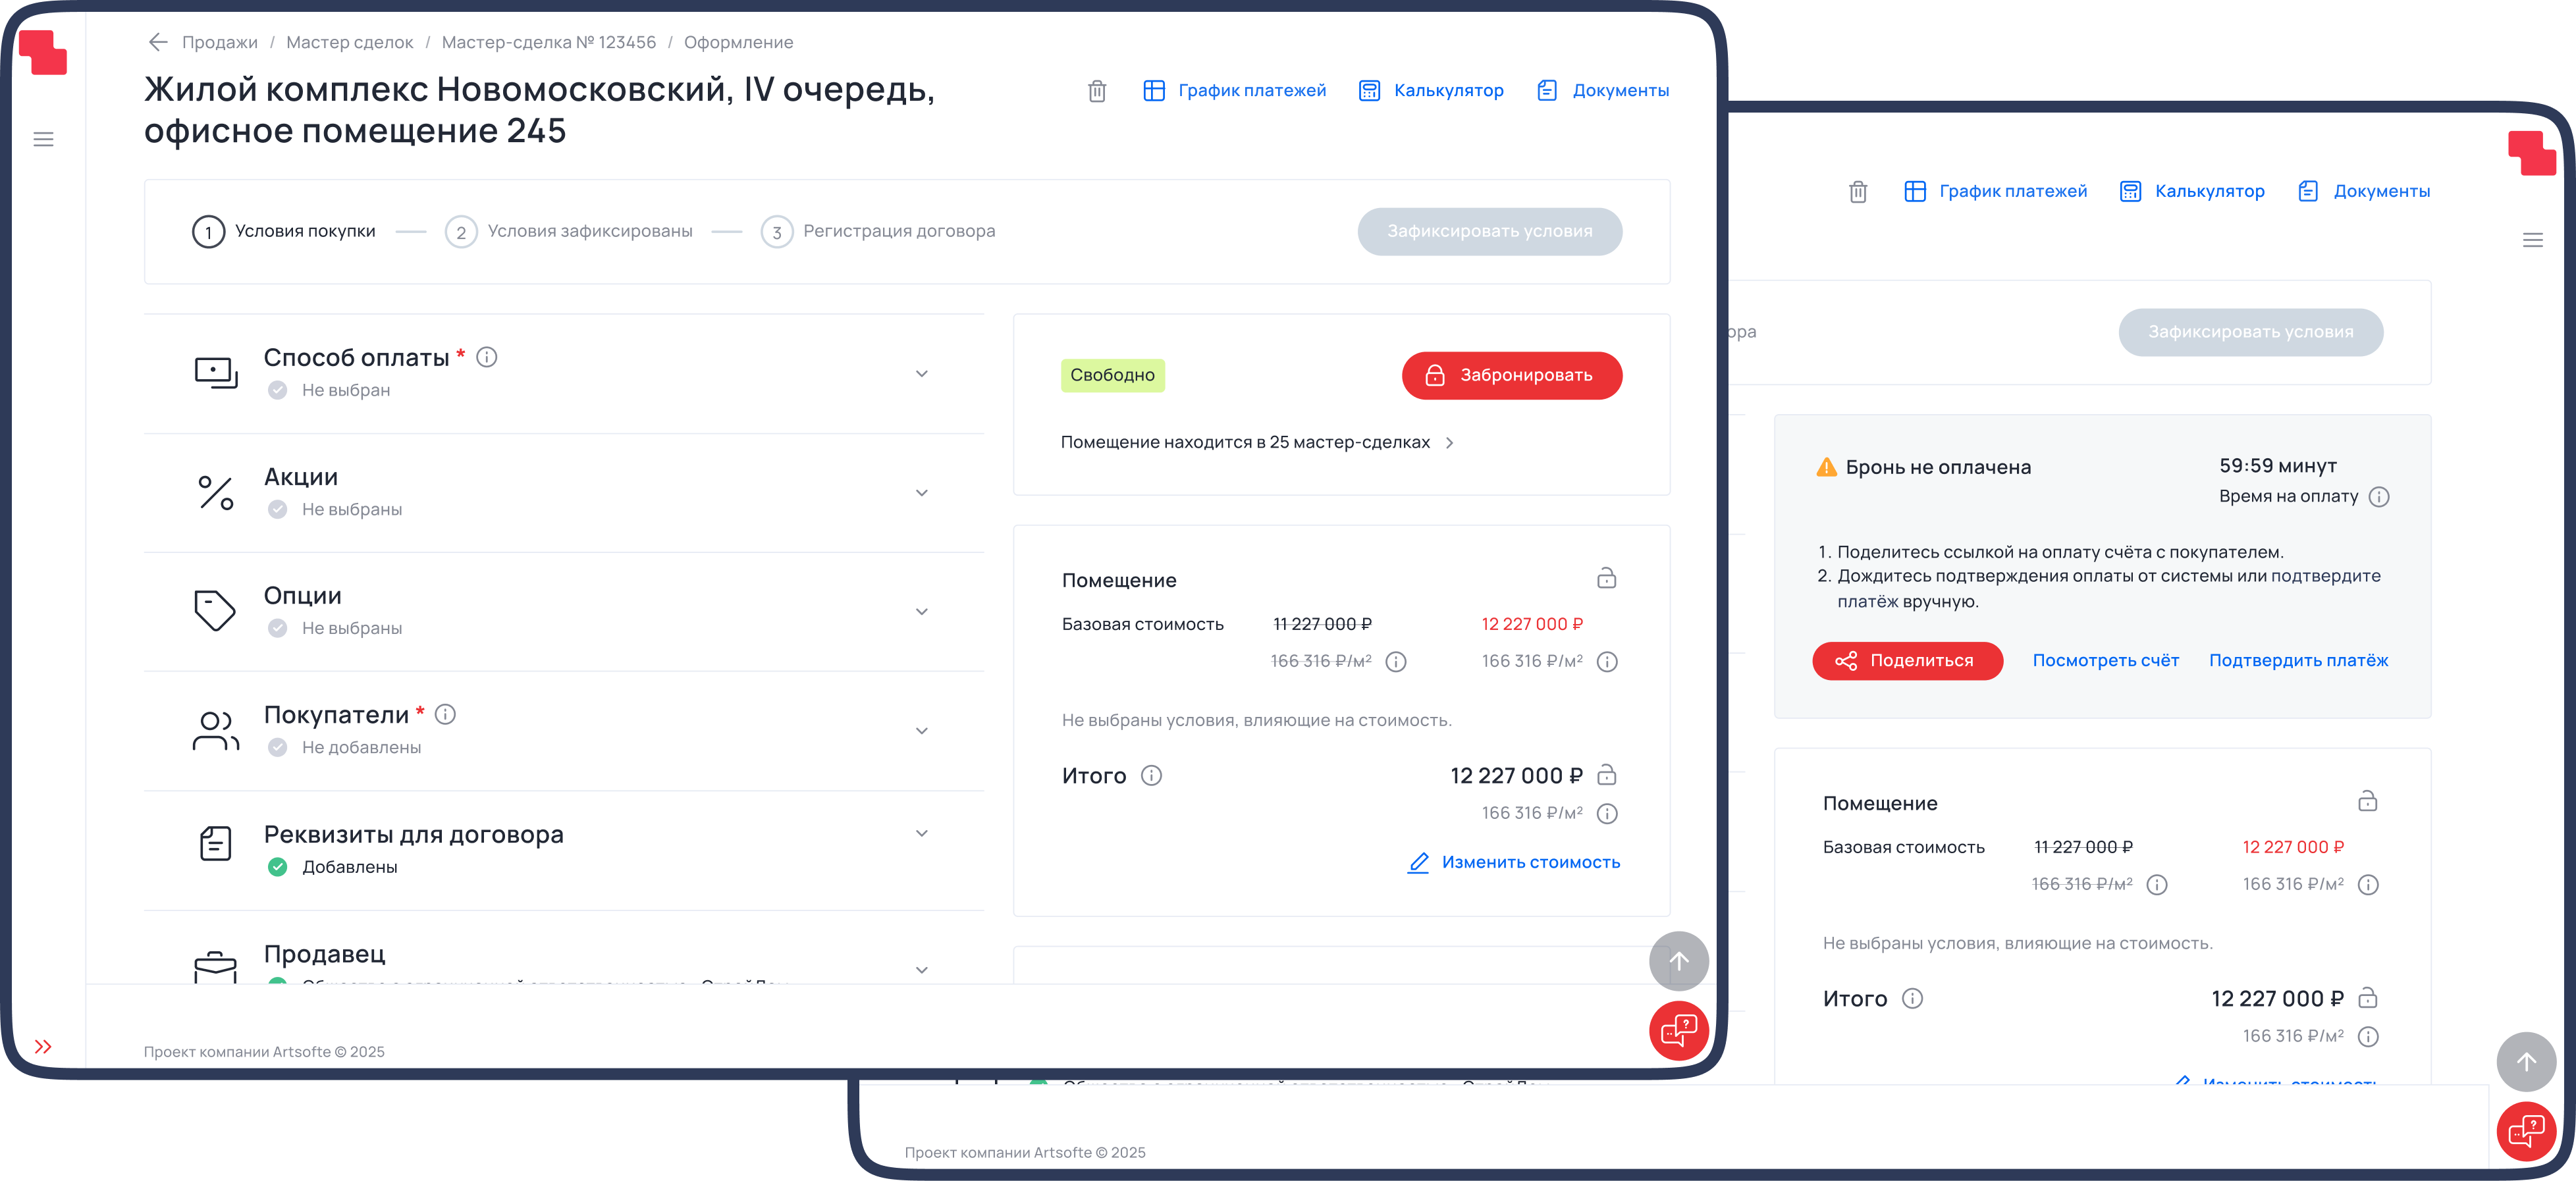
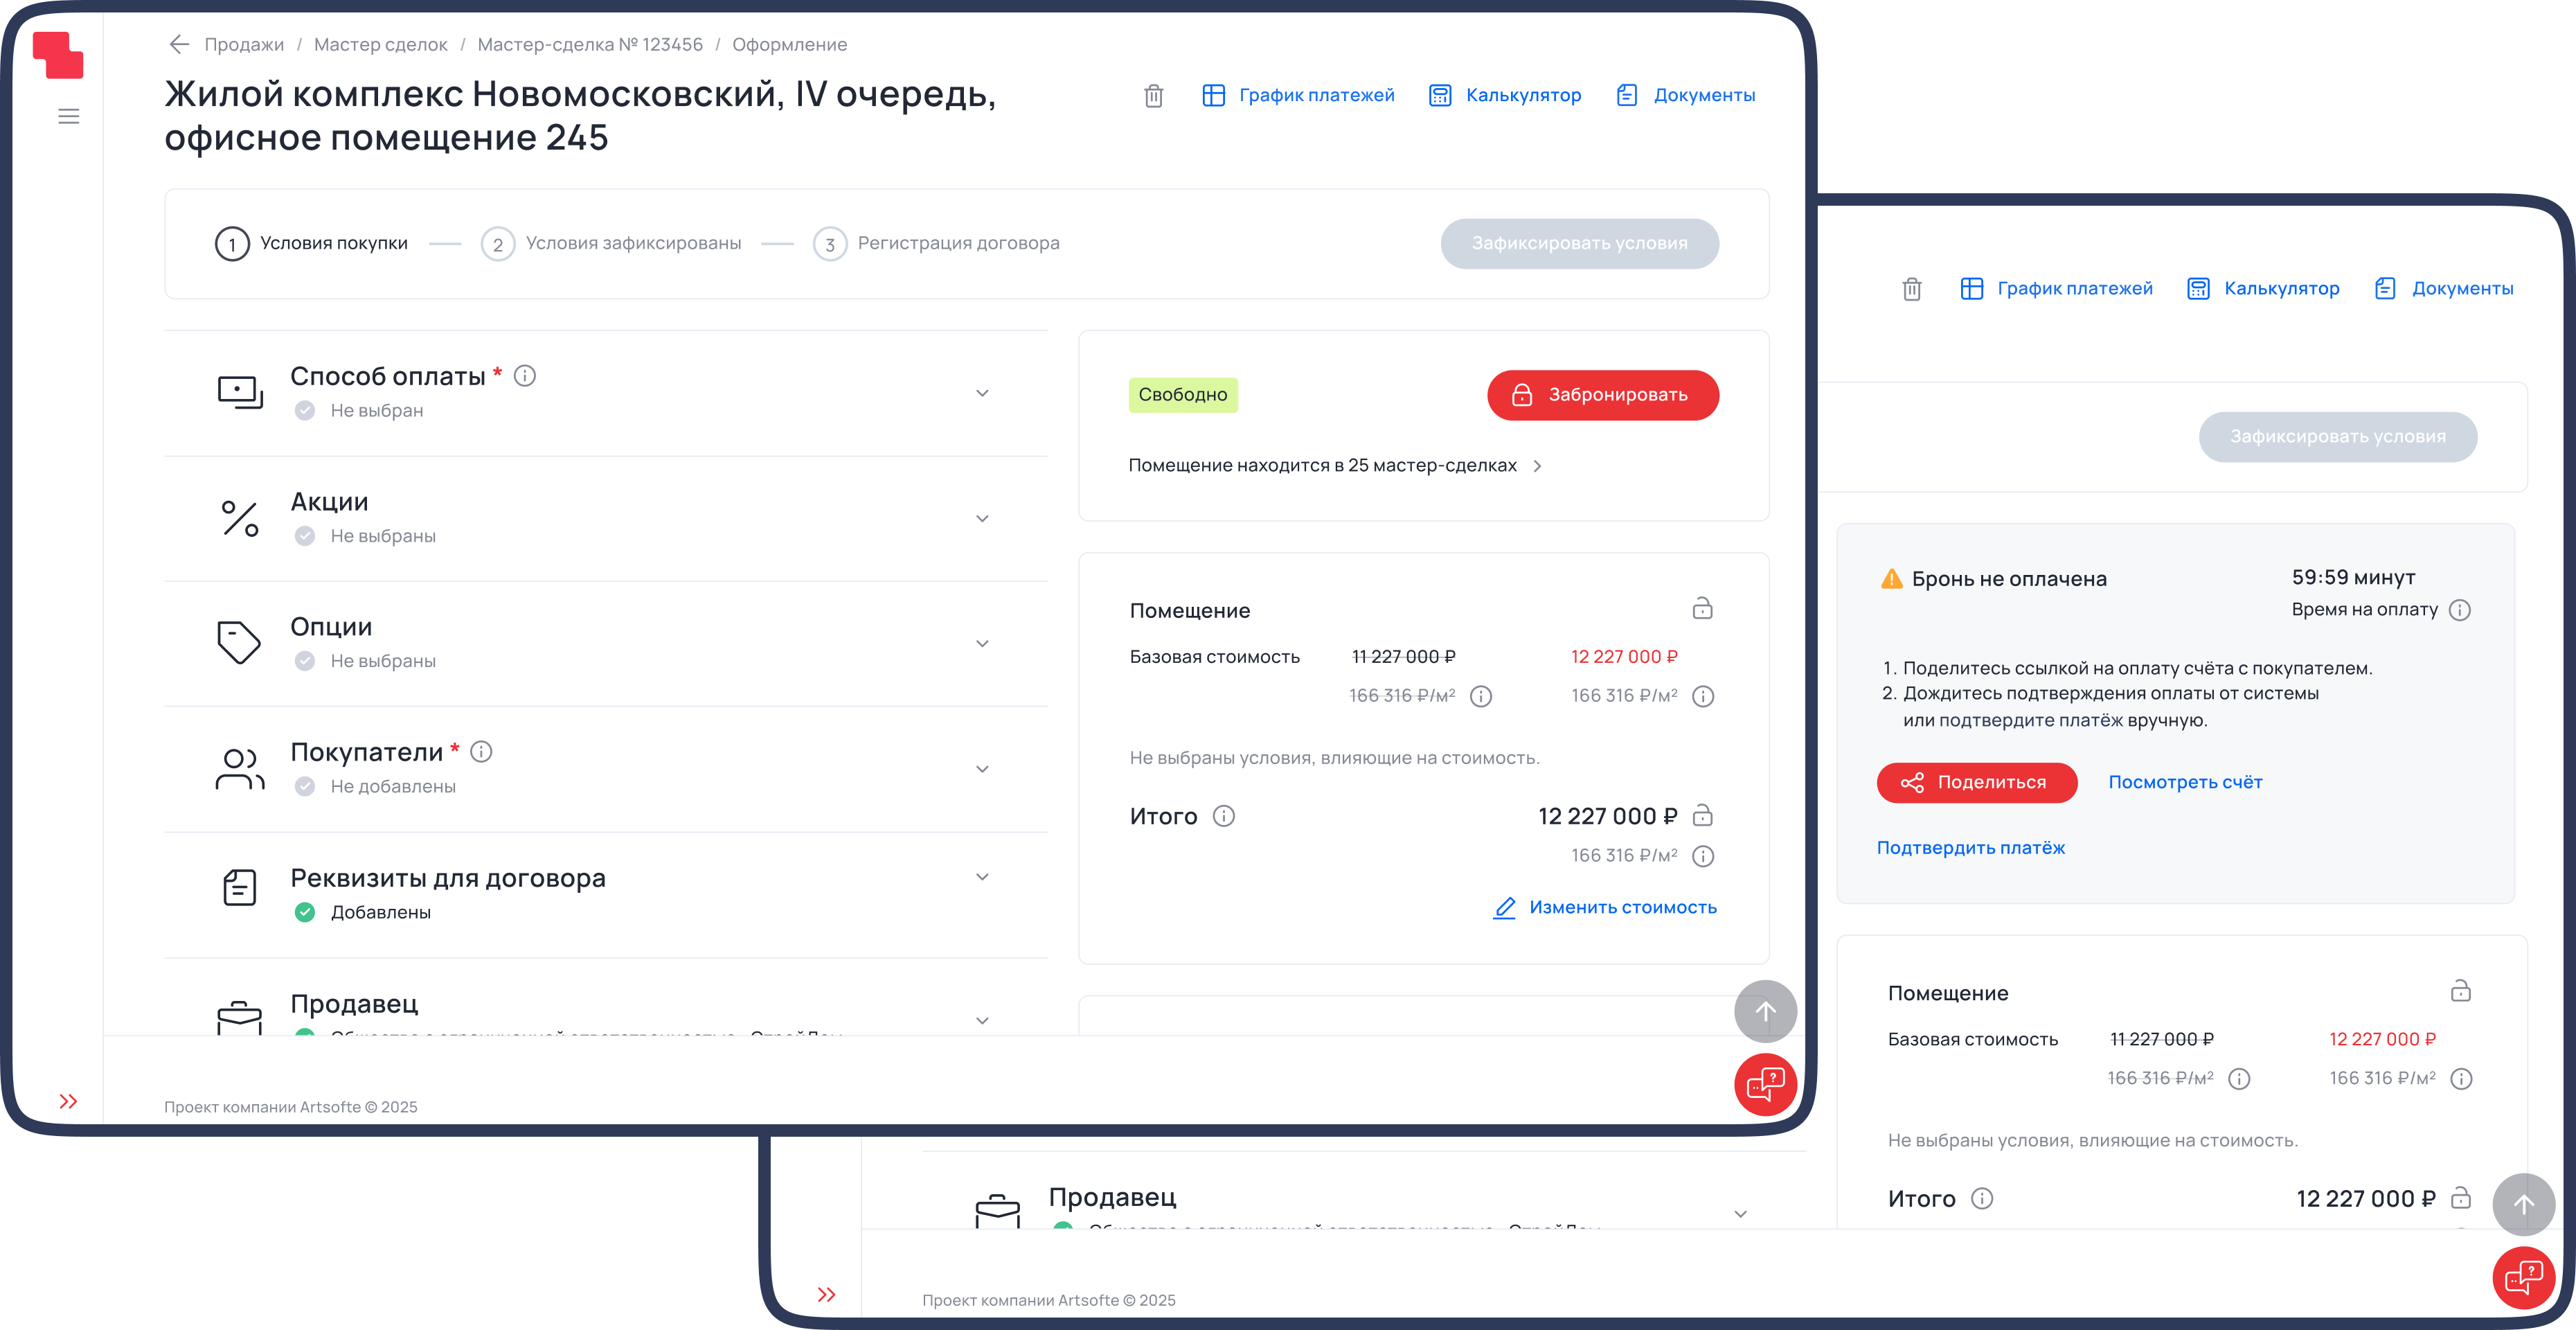
правки в документах

diff --git a/work/paid-booking/index.html b/work/paid-booking/index.html
@@ -60,23 +60,23 @@
           <h2 class="case-booking-v2__section-title" id="context-title">Контекст <span class="case-booking-v2__section-index">01</span></h2>
           <div class="case-booking-v2__section-content case-booking-v2__section-content--stacked">
             <p>Profitbase — экосистема proptech-сервисов для&nbsp;девелоперов жилья. Модуль «Смарт-каталог» генерирует около 60% заявок с&nbsp;конверсией в&nbsp;сделку в&nbsp;три раза выше среднего.</p>
-            <p>Но&nbsp;после выбора квартиры продукт передавал покупателя в&nbsp;ручную цепочку: заявка → звонок менеджера → бронирование по&nbsp;телефону или в&nbsp;мессенджере. Горячий лид остывал, пока ждал ответа.</p>
-          </div>
-        </section>
-
-        <section class="case-booking-v2__section reveal" aria-labelledby="role-title">
-          <h2 class="case-booking-v2__section-title" id="role-title">Моя роль <span class="case-booking-v2__section-index">02</span></h2>
-          <div class="case-booking-v2__section-content">
-            <p>Работала в&nbsp;команде с&nbsp;продакт-менеджером, аналитиком и&nbsp;разработкой. В&nbsp;роли ведущего product designer отвечала за&nbsp;полный MVP: покупательский флоу, сценарий менеджера, настройки застройщика.</p>
+            <p>Но&nbsp;после выбора квартиры продукт передавал покупателя в&nbsp;ручную обработку сделки менеджером. Горячий лид остывал, пока ждал ответа, конверсия падала.</p>
+            <div class="case-booking-v2__context-image">
+              <img src="../../assets/case-booking-context.png?v=20260530" alt="Контекст ручной обработки бронирования после выбора квартиры" width="4096" height="1282">
+            </div>
           </div>
         </section>
 
         <section class="case-booking-v2__section reveal" aria-labelledby="discovery-title">
-          <h2 class="case-booking-v2__section-title" id="discovery-title">Discovery <span class="case-booking-v2__section-index">03</span></h2>
+          <h2 class="case-booking-v2__section-title" id="discovery-title">Discovery <span class="case-booking-v2__section-index">02</span></h2>
           <div class="case-booking-v2__section-content case-booking-v2__section-content--stacked case-booking-v2__discovery">
             <article class="case-booking-v2__discovery-item">
               <p class="case-booking-v2__chip">Тайный покупатель</p>
-              <p>4&nbsp;дизайнера прошли полный путь бронирования у&nbsp;15&nbsp;застройщиков Екатеринбурга. Фиксировали время ответа, каналы, наличие онлайн-сценария, модель бронирования. Только 2&nbsp;из&nbsp;15&nbsp;ответили в&nbsp;течение 2&nbsp;часов — остальные на&nbsp;следующий день или позже. Ни&nbsp;один не&nbsp;предлагал платное онлайн-бронирование.</p>
+              <ul>
+                <li>4&nbsp;дизайнера прошли путь бронирования у&nbsp;15&nbsp;застройщиков Екатеринбурга.</li>
+                <li>Только 2&nbsp;из&nbsp;15&nbsp;ответили в&nbsp;течение 2&nbsp;часов. Остальные — на&nbsp;следующий день или позже. Ни&nbsp;один не&nbsp;предлагал платное онлайн-бронирование.</li>
+                <li>После заявки возникает пауза, где горячий лид может остыть.</li>
+              </ul>
             </article>
             <article class="case-booking-v2__discovery-item">
               <p class="case-booking-v2__chip">Бенчмаркинг</p>
@@ -84,13 +84,13 @@
             </article>
             <article class="case-booking-v2__discovery-item">
               <p class="case-booking-v2__chip">Desk research</p>
-              <p>NNGroup: рекомендации по&nbsp;формам с&nbsp;чувствительными данными — пошаговость, ясность текста, явное обозначение происходящего. На&nbsp;CJM я&nbsp;показала разрыв между&nbsp;выбором квартиры и&nbsp;оплатой — точки, где можно вернуть клиента: СМС, подтверждение на&nbsp;почту, объяснение дальнейших шагов.</p>
+              <p>Я&nbsp;использовала рекомендации NNGroup как опору для&nbsp;проектирования форм с&nbsp;чувствительными данными: пошаговость, ясные тексты, явное объяснение происходящего.</p>
             </article>
           </div>
         </section>
 
         <section class="case-booking-v2__section reveal" aria-labelledby="jtbd-title">
-          <h2 class="case-booking-v2__section-title" id="jtbd-title">JTBD и&nbsp;требования <span class="case-booking-v2__section-index">04</span></h2>
+          <h2 class="case-booking-v2__section-title" id="jtbd-title">JTBD и&nbsp;требования <span class="case-booking-v2__section-index">03</span></h2>
           <div class="case-booking-v2__section-content case-booking-v2__section-content--stacked case-booking-v2__chip-list">
             <article class="case-booking-v2__chip-item">
               <p class="case-booking-v2__chip">Покупатель</p>
@@ -113,7 +113,7 @@
 
         <section class="case-booking-v2__result reveal" aria-labelledby="buyer-flow-title">
           <div class="case-booking-v2__section">
-            <h2 class="case-booking-v2__section-title" id="buyer-flow-title">Флоу покупателя <span class="case-booking-v2__section-index">05</span></h2>
+            <h2 class="case-booking-v2__section-title" id="buyer-flow-title">Флоу покупателя <span class="case-booking-v2__section-index">04</span></h2>
           </div>
 
           <div class="case-booking-v2__screens">
@@ -130,7 +130,9 @@
             <div class="case-booking-v2__screen">
               <div class="case-booking-v2__screen-copy">
                 <p class="case-booking-v2__screen-title">Первая страница бронирования.</p>
-                <p>Содержит онбординг с&nbsp;шагами, условия брони и&nbsp;оферту, карточку помещения. Добавлен таймер на&nbsp;оформление брони: 59:59&nbsp;минут. Застройщик может изменить его в&nbsp;настройках под&nbsp;свои процессы.</p>
+                <p>Содержит онбординг с&nbsp;шагами, условия брони и&nbsp;оферту, карточку помещения.</p>
+                <p>Добавлен таймер на&nbsp;оформление брони: 59:59&nbsp;минут. Застройщик может изменить его в&nbsp;настройках под&nbsp;свои процессы.</p>
+                <p>Оферта открывается в&nbsp;сайдбаре и&nbsp;не&nbsp;уводит на&nbsp;другую страницу.</p>
               </div>
               <div class="case-booking-v2__screen-media case-booking-v2__screen-media--wide">
                 <img src="../../assets/case-booking-flow-start.png" alt="Первый шаг бронирования с&nbsp;условиями и&nbsp;карточкой помещения" width="2643" height="1841">
@@ -140,7 +142,7 @@
             <div class="case-booking-v2__screen">
               <div class="case-booking-v2__screen-copy">
                 <p class="case-booking-v2__screen-title">Заполнение данных.</p>
-                <p>Первоначально я&nbsp;предлагала обойтись без&nbsp;паспортных данных — быстрее, меньше трения. Но&nbsp;без&nbsp;них невозможно: корректный чек через&nbsp;ЮKassa и&nbsp;договор бронирования юридически требуют паспорт. Документы открываются в&nbsp;сайдбаре и&nbsp;не&nbsp;уводят на&nbsp;другую страницу.</p>
+                <p>Первоначально я&nbsp;предлагала обойтись без&nbsp;паспортных данных — быстрее, меньше трения. Но&nbsp;без&nbsp;них невозможно: корректный чек через&nbsp;ЮKassa и&nbsp;договор бронирования юридически требуют паспорт.</p>
               </div>
               <div class="case-booking-v2__screen-media case-booking-v2__screen-media--wide">
                 <img src="../../assets/case-booking-flow-data.png" alt="Форма заполнения данных покупателя" width="2643" height="1841">
@@ -150,7 +152,8 @@
             <div class="case-booking-v2__screen">
               <div class="case-booking-v2__screen-copy">
                 <p class="case-booking-v2__screen-title">Проверка перед оплатой.</p>
-                <p>15&nbsp;из&nbsp;15&nbsp;респондентов на&nbsp;тестировании отметили этот шаг как полезный. Проверка снижает тревожность: пользователь видит свои данные, сумму, срок — и&nbsp;уверен, что нажимает «Оплатить» осознанно.</p>
+                <p>15&nbsp;из&nbsp;15&nbsp;респондентов на&nbsp;тестировании отметили этот шаг как полезный.</p>
+                <p>Проверка снижает ошибки и&nbsp;тревожность: пользователь видит свои данные и&nbsp;нажимает «Оплатить» осознанно.</p>
               </div>
               <div class="case-booking-v2__screen-media case-booking-v2__screen-media--wide">
                 <img src="../../assets/case-booking-flow-review.png" alt="Экран проверки данных перед оплатой" width="2643" height="1841">
@@ -160,7 +163,8 @@
             <div class="case-booking-v2__screen">
               <div class="case-booking-v2__screen-copy">
                 <p class="case-booking-v2__screen-title">Успешный сценарий.</p>
-                <p>Покупатель получает СМС-подтверждение. Менеджер мгновенно видит новую бронь в&nbsp;CRM. Всё автоматически — без&nbsp;ручных действий с&nbsp;обеих сторон. Также спроектированы краевые состояния: оплата не&nbsp;прошла, таймаут сессии, отмена бронирования.</p>
+                <p>Покупатель получает СМС-подтверждение. Менеджер мгновенно видит новую бронь в&nbsp;CRM. Всё автоматически — без&nbsp;ручных действий с&nbsp;обеих сторон.</p>
+                <p>Спроектированы краевые состояния: оплата не&nbsp;прошла, таймаут сессии, отмена бронирования — каждое состояние имеет свой экран и&nbsp;сценарий возврата. В&nbsp;этой презентации показан happy path.</p>
               </div>
               <div class="case-booking-v2__screen-media case-booking-v2__screen-media--wide">
                 <img src="../../assets/case-booking-flow-success.png" alt="Экран успешного бронирования" width="2643" height="1841">
@@ -171,7 +175,7 @@
 
         <section class="case-booking-v2__result reveal" aria-labelledby="manager-flow-title">
           <div class="case-booking-v2__section">
-            <h2 class="case-booking-v2__section-title" id="manager-flow-title">Флоу менеджера <span class="case-booking-v2__section-index">06</span></h2>
+            <h2 class="case-booking-v2__section-title" id="manager-flow-title">Флоу менеджера <span class="case-booking-v2__section-index">05</span></h2>
           </div>
           <div class="case-booking-v2__screens">
             <div class="case-booking-v2__screen">
@@ -179,7 +183,7 @@
                 <p>CJM показала — часть покупателей начнёт бронирование, но&nbsp;не&nbsp;завершит. Без&nbsp;инструмента для&nbsp;менеджера эти лиды потеряны. Решение: менеджер стал страховочной сеткой — видит брошенную бронь в&nbsp;задаче и&nbsp;карточке сделки в&nbsp;CRM, звонит, помогает завершить.</p>
               </div>
               <div class="case-booking-v2__screen-media case-booking-v2__screen-media--manager">
-                <img src="../../assets/case-booking-flow-manager.png" alt="Интерфейс CRM с&nbsp;задачей менеджера по&nbsp;бронированию" width="3912" height="1794">
+                <img src="../../assets/case-booking-flow-manager.png?v=20260530" alt="Интерфейс CRM с&nbsp;задачей менеджера по&nbsp;бронированию" width="3720" height="1920">
               </div>
             </div>
           </div>
@@ -187,7 +191,7 @@
 
         <section class="case-booking-v2__result reveal" aria-labelledby="admin-title">
           <div class="case-booking-v2__section">
-            <h2 class="case-booking-v2__section-title" id="admin-title">Админка <span class="case-booking-v2__section-index">07</span></h2>
+            <h2 class="case-booking-v2__section-title" id="admin-title">Админка <span class="case-booking-v2__section-index">06</span></h2>
           </div>
           <div class="case-booking-v2__screens">
             <div class="case-booking-v2__screen">
@@ -195,36 +199,36 @@
                 <p>Настройки бронирования позволяют застройщику самостоятельно подключить эквайринг, счета, документы и&nbsp;брендирование.</p>
               </div>
               <div class="case-booking-v2__screen-media case-booking-v2__screen-media--admin">
-                <img src="../../assets/case-booking-flow-admin.png" alt="Настройки онлайн-бронирования в&nbsp;админке" width="2718" height="1599">
+                <img src="../../assets/case-booking-flow-admin.png?v=20260530" alt="Настройки онлайн-бронирования в&nbsp;админке" width="2718" height="1599">
               </div>
             </div>
           </div>
         </section>
 
         <section class="case-booking-v2__section reveal" aria-labelledby="testing-title">
-          <h2 class="case-booking-v2__section-title" id="testing-title">Тестирование <span class="case-booking-v2__section-index">08</span></h2>
+          <h2 class="case-booking-v2__section-title" id="testing-title">Тестирование <span class="case-booking-v2__section-index">07</span></h2>
           <div class="case-booking-v2__section-content case-booking-v2__section-content--stacked case-booking-v2__chip-list">
             <article class="case-booking-v2__chip-item">
               <p class="case-booking-v2__chip">Как проводила</p>
               <ul>
-                <li>Тестировала сценарий покупателя совместно с&nbsp;аналитиком.</li>
-                <li>Проверяли десктопную и&nbsp;адаптивную версии.</li>
-                <li>15&nbsp;человек приняли участие.</li>
+                <li>Совместно с&nbsp;аналитиком провели usability-тестирование desktop и&nbsp;adaptive-версии на&nbsp;15&nbsp;респондентах.</li>
+                <li>Задача — забронировать помещение.</li>
               </ul>
             </article>
             <article class="case-booking-v2__chip-item">
-              <p class="case-booking-v2__chip">Итоги</p>
-              <p>100% справились с&nbsp;бронированием. 4,5&nbsp;из&nbsp;5 — оценка визуала. 4,7&nbsp;из&nbsp;5 — оценка юзабилити.</p>
-            </article>
-            <article class="case-booking-v2__chip-item">
               <p class="case-booking-v2__chip">Выводы</p>
-              <p>Тексты и&nbsp;иллюстрации были заменены на&nbsp;более понятные. Тултипы пользователи не&nbsp;читали, поэтому важные тексты перенесла в&nbsp;интерфейс. Распознавание паспорта заметили лишь 2&nbsp;респондента — проработку решения отложили на&nbsp;вторую итерацию.</p>
+              <ul>
+                <li>С&nbsp;бронированием справились все респонденты.</li>
+                <li>Тексты и&nbsp;иллюстрации были заменены на&nbsp;более понятные.</li>
+                <li>Тултипы пользователи не&nbsp;читали, поэтому важные тексты перенесла в&nbsp;интерфейс.</li>
+                <li>Распознавание паспорта заметили лишь 2&nbsp;респондента — проработку решения отложили на&nbsp;вторую итерацию.</li>
+              </ul>
             </article>
           </div>
         </section>
 
         <section class="case-booking-v2__section reveal" aria-labelledby="result-title">
-          <h2 class="case-booking-v2__section-title" id="result-title">Результат <span class="case-booking-v2__section-index">09</span></h2>
+          <h2 class="case-booking-v2__section-title" id="result-title">Результат <span class="case-booking-v2__section-index">08</span></h2>
           <div class="case-booking-v2__section-content case-booking-v2__section-content--stacked">
             <p>Через год после запуска:</p>
             <ul>

diff --git a/styles.css b/styles.css
@@ -2924,6 +2924,7 @@ body.page--case-booking-v2 {
 .page--case-booking-v2 .case-booking-v2__title {
   font-size: var(--case-title-size);
   line-height: 1.2;
+  overflow-wrap: anywhere;
 }
 
 .page--case-booking-v2 .case-booking-v2__hero-grid {
@@ -2995,11 +2996,17 @@ body.page--case-booking-v2 {
 }
 
 .page--case-booking-v2 .case-booking-v2__hero-media img,
+.page--case-booking-v2 .case-booking-v2__context-image img,
 .page--case-booking-v2 .case-booking-v2__screen-media img {
   width: 100%;
   height: auto;
   display: block;
   object-fit: contain;
+}
+
+.page--case-booking-v2 .case-booking-v2__context-image {
+  width: 100%;
+  aspect-ratio: 4096 / 1282;
 }
 
 .page--case-booking-v2 .case-booking-v2__section {
@@ -3104,7 +3111,7 @@ body.page--case-booking-v2 {
 }
 
 .page--case-booking-v2 .case-booking-v2__screen-media--manager {
-  aspect-ratio: 3912 / 1794;
+  aspect-ratio: 3720 / 1920;
 }
 
 .page--case-booking-v2 .case-booking-v2__screen-media--admin {
@@ -3180,7 +3187,7 @@ body.page--case-booking-v2 {
     --case-page-inline: 20px;
     --case-section-title-size: 24px;
     --case-section-index-size: 16px;
-    --case-title-size: 36px;
+    --case-title-size: 30px;
     --case-metric-size: 36px;
     --case-section-gap: 60px;
     --case-block-gap: 60px;
@@ -3201,6 +3208,13 @@ body.page--case-booking-v2 {
 
   .page--case-booking-v2 .case-booking-v2__screens {
     gap: 60px;
+  }
+
+  .page--case-booking-v2 p,
+  .page--case-booking-v2 li,
+  .page--case-booking-v2 .case-booking-v2__metric span {
+    overflow-wrap: anywhere;
+    word-break: break-word;
   }
 
 }
@@ -3526,6 +3540,7 @@ body.page--case-booking-v2 {
 }
 
 .page--case-booking-v2 .case-booking-v2__hero-media img,
+.page--case-booking-v2 .case-booking-v2__context-image img,
 .page--case-booking-v2 .case-booking-v2__screen-media img,
 .page--case-documents-v1 .case-documents-v1__hero-media img,
 .page--case-documents-v1 .case-documents-v1__screen-media img {

diff --git a/script.js b/script.js
@@ -524,6 +524,7 @@
 
     const imageSelector = [
       ".case-booking-v2__hero-media img",
+      ".case-booking-v2__context-image img",
       ".case-booking-v2__screen-media img",
       ".case-documents-v1__hero-media img",
       ".case-documents-v1__screen-media img"